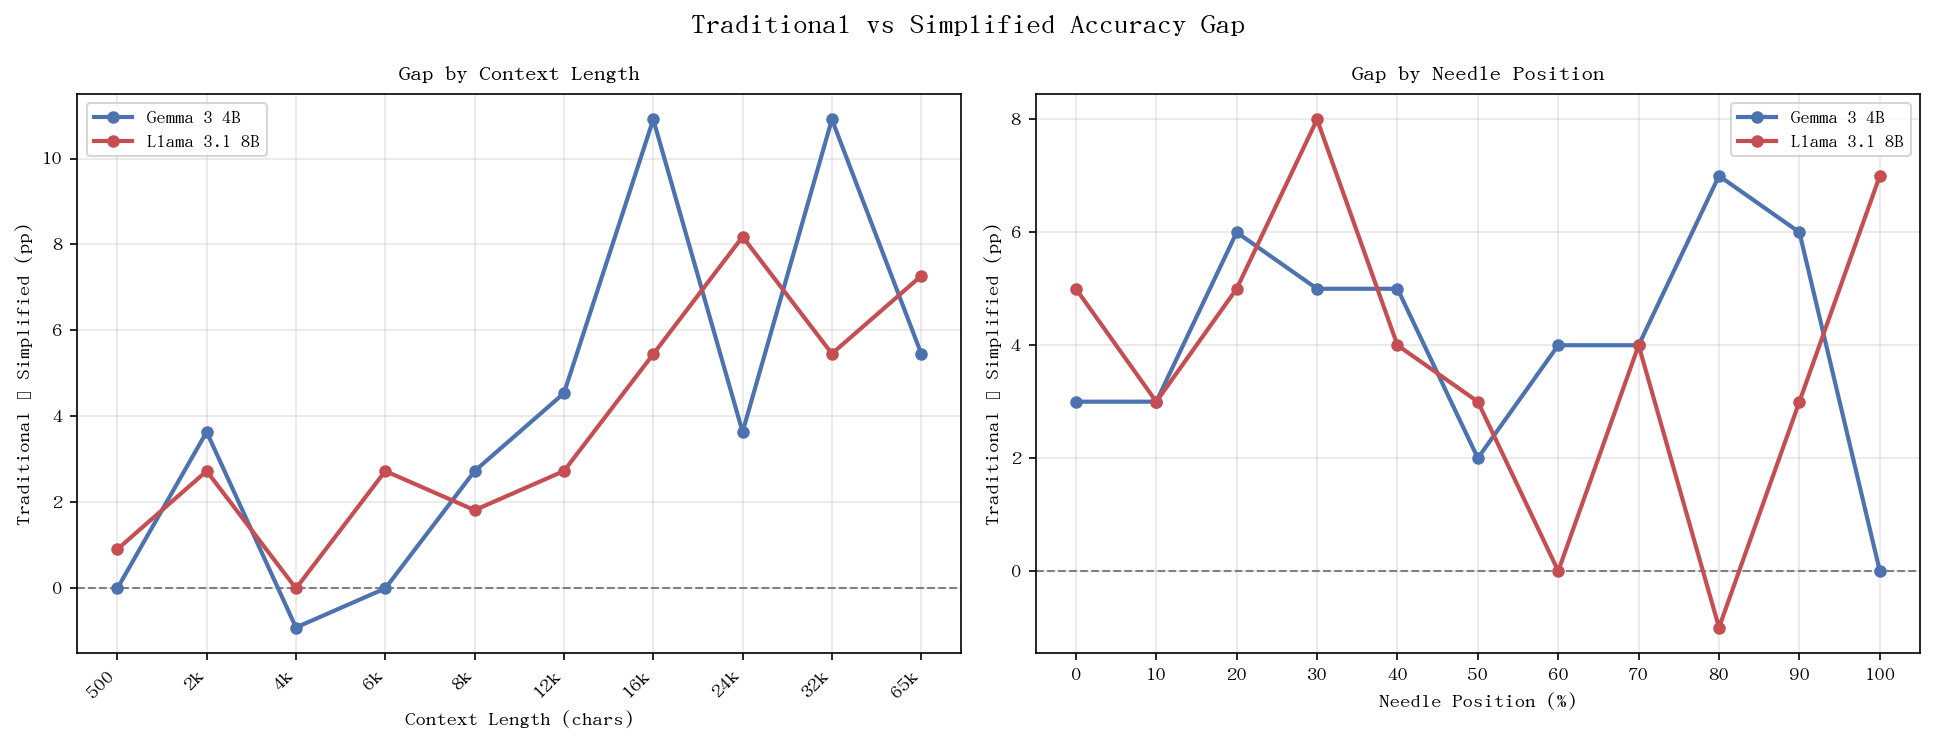
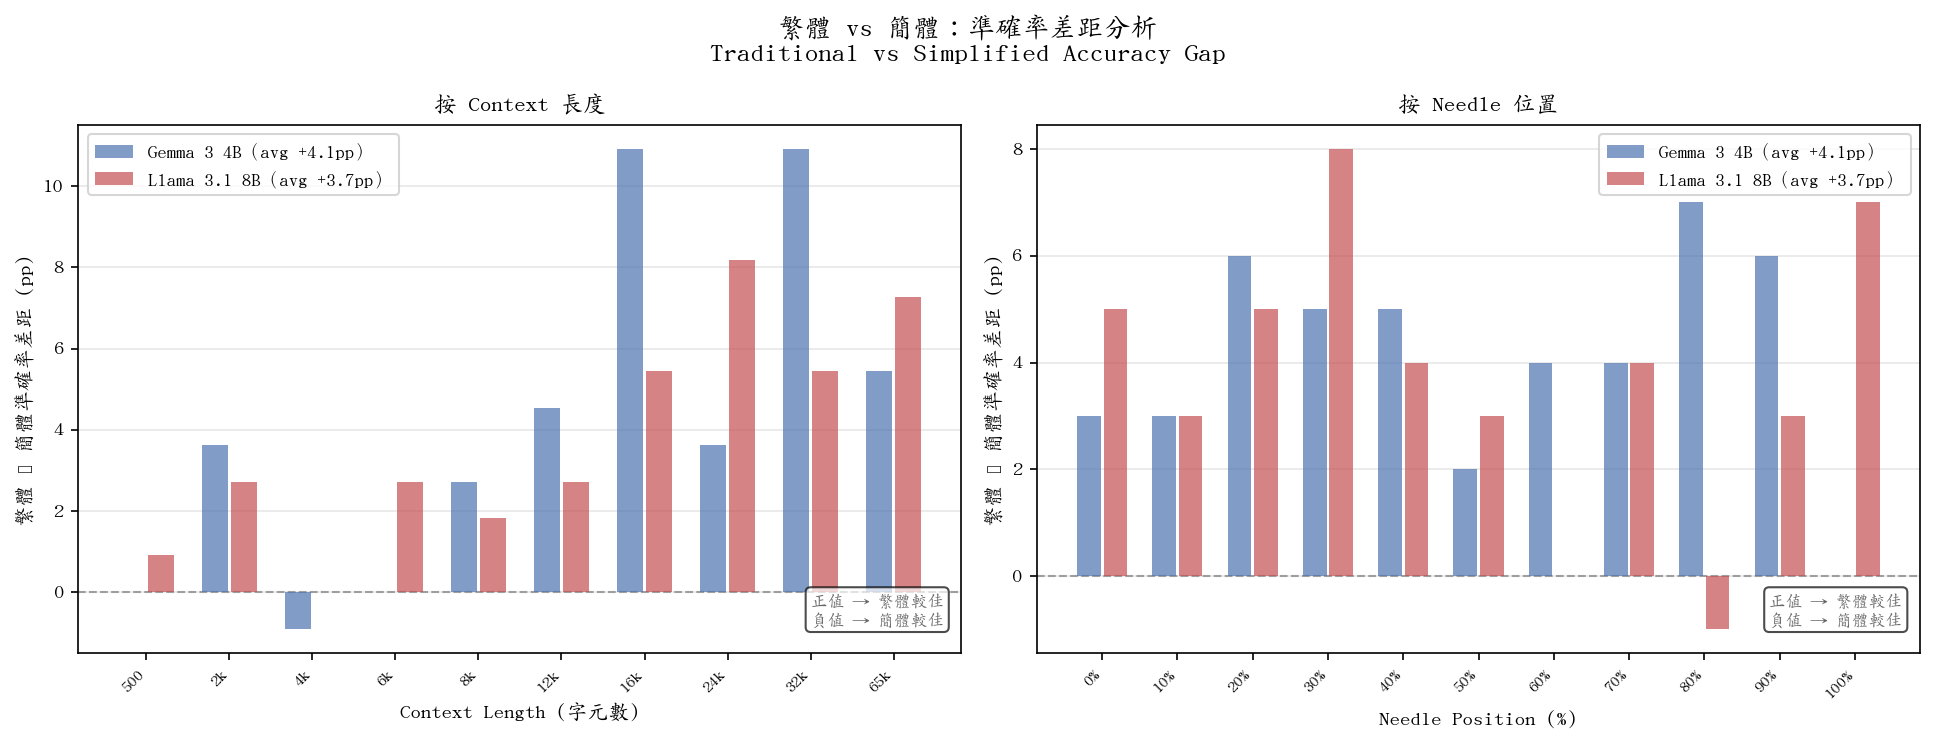
新增 .gitignore，確保實驗資料完整保留於 git
追蹤策略：
  保留（必須 commit）：
    results/*_results.jsonl  — 各模型原始實驗結果，不可重建
    results/analysis/        — 分析輸出
    results/plots/           — 圖表
    data/wiki_raw_v2/corpus_metadata.json  — 語料來源記錄

  排除（可由腳本重建）：
    data/haystacks/experiments.jsonl  — 102MB haystack 文本，由 02_build_haystacks.py 重建
    data/wiki_raw_v2/zh/、en/         — 1.6MB wiki txt，由 01_fetch_wiki_v2.py 重建

更新 trad_simp_gap.png 改為長條圖，避免折線圖統計雜訊造成誤解
更新 05_plot_results.py 使用 AR PL UKai 楷書字型

diff --git a/scripts/05_plot_results.py b/scripts/05_plot_results.py
@@ -152,43 +152,73 @@ def plot_accuracy_vs_position(models_data: dict, out_path: str):
 # ── 3. 繁 vs 簡 準確率差異（折線） ──────────────────────────────────────────
 
 def plot_trad_simp_gap(models_data: dict, out_path: str):
+    """
+    繁體 vs 簡體準確率差距：以長條圖呈現每個模型的整體平均差距，
+    並附上各長度的分布散點，避免折線圖的統計雜訊造成誤解。
+    """
     fig, axes = plt.subplots(1, 2, figsize=(13, 5))
-    fig.suptitle("Traditional vs Simplified Accuracy Gap", fontsize=14, fontweight="bold")
+    fig.suptitle("繁體 vs 簡體：準確率差距分析\n"
+                 "Traditional vs Simplified Accuracy Gap",
+                 fontsize=13, fontweight="bold")
 
     for ax, x_key, xlabel, title in [
         (axes[0], "accuracy_by_length",
-         "Context Length (chars)", "Gap by Context Length"),
+         "Context Length (字元數)", "按 Context 長度"),
         (axes[1], "accuracy_by_position",
-         "Needle Position (%)", "Gap by Needle Position"),
+         "Needle Position (%)", "按 Needle 位置"),
     ]:
-        ax.axhline(0, color="gray", linewidth=1, linestyle="--")
-        for model, data in models_data.items():
+        # 零線
+        ax.axhline(0, color="#999999", linewidth=1, linestyle="--", zorder=1)
+
+        bar_width = 0.35
+        n_models = len(models_data)
+        offsets = np.linspace(-(n_models - 1) * bar_width / 2,
+                              (n_models - 1) * bar_width / 2, n_models)
+
+        all_keys = None
+        for (model, data), offset in zip(models_data.items(), offsets):
             trad = data[x_key].get("traditional", {})
             simp = data[x_key].get("simplified", {})
             keys = sorted(set(trad) & set(simp))
+            if all_keys is None:
+                all_keys = keys
             gaps = [(trad[k] - simp[k]) * 100 for k in keys]
+            avg_gap = np.mean(gaps)
 
             colors = MODEL_COLORS.get(model, DEFAULT_COLORS)
             label = MODEL_LABELS.get(model, model)
+            x_center = np.arange(len(keys))
 
+            # 長條：整體平均（視覺主軸）
+            # 散點：每個長度/位置的實際差距
+            ax.bar(x_center + offset, gaps, width=bar_width * 0.9,
+                   color=colors[0], alpha=0.7, label=f"{label}（avg {avg_gap:+.1f}pp）",
+                   zorder=2)
+
+        if all_keys is not None:
             if x_key == "accuracy_by_length":
-                x_vals = range(len(keys))
-                ax.set_xticks(x_vals)
+                ax.set_xticks(np.arange(len(all_keys)))
                 ax.set_xticklabels(
-                    [f"{k//1000}k" if k >= 1000 else str(k) for k in keys],
-                    rotation=45, ha="right")
+                    [f"{k//1000}k" if k >= 1000 else str(k) for k in all_keys],
+                    rotation=45, ha="right", fontsize=8)
             else:
-                x_vals = [k * 100 for k in keys]
-                ax.set_xticks([0, 10, 20, 30, 40, 50, 60, 70, 80, 90, 100])
-
-            ax.plot(x_vals, gaps, "o-", color=colors[0],
-                    label=label, linewidth=2, markersize=5)
+                ax.set_xticks(np.arange(len(all_keys)))
+                ax.set_xticklabels(
+                    [f"{int(k*100)}%" for k in all_keys],
+                    rotation=45, ha="right", fontsize=8)
 
         ax.set_title(title, fontsize=11)
         ax.set_xlabel(xlabel, fontsize=10)
-        ax.set_ylabel("Traditional − Simplified (pp)", fontsize=10)
-        ax.grid(True, alpha=0.3)
+        ax.set_ylabel("繁體 − 簡體準確率差距 (pp)", fontsize=10)
+        ax.grid(axis="y", alpha=0.3, zorder=0)
         ax.legend(fontsize=9)
+
+        # 標注：正值 = 繁體較佳，負值 = 簡體較佳
+        y_min = ax.get_ylim()[0]
+        ax.text(0.98, 0.05, "正值 → 繁體較佳\n負值 → 簡體較佳",
+                transform=ax.transAxes, ha="right", va="bottom",
+                fontsize=8, color="#666666",
+                bbox=dict(boxstyle="round,pad=0.3", fc="white", alpha=0.7))
 
     plt.tight_layout()
     plt.savefig(out_path, bbox_inches="tight")